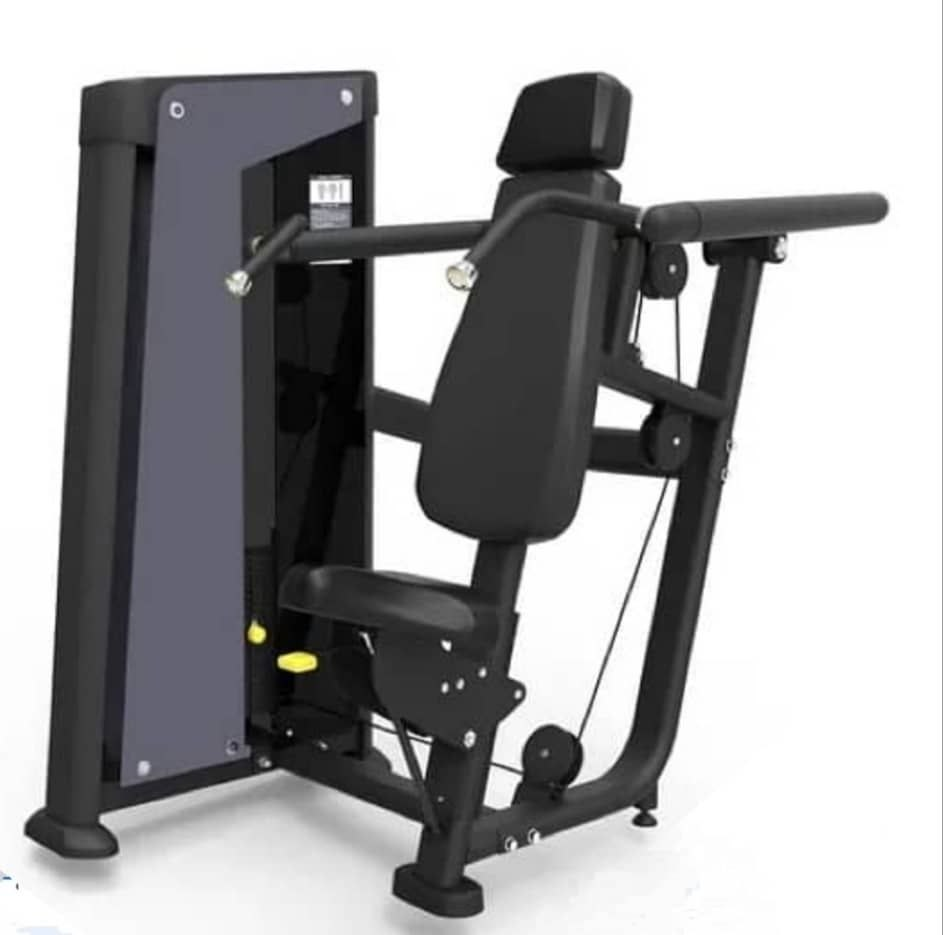
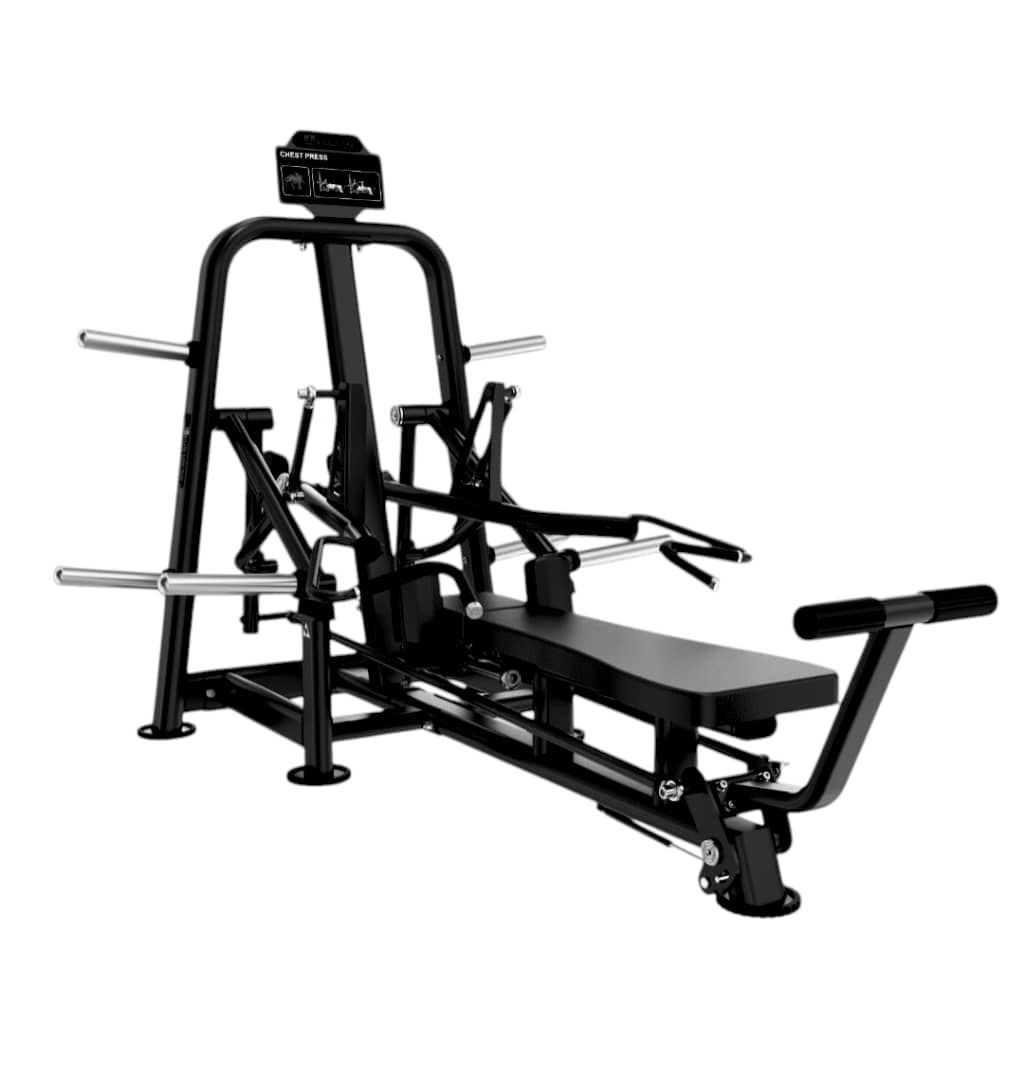
renaming_machines+add-ons_meals

diff --git a/src/app/api/portal/meal-catalog/route.ts b/src/app/api/portal/meal-catalog/route.ts
@@ -6,9 +6,9 @@ const FALLBACK_ITEMS = [
   {
     id: "meal_250_150",
     kind: "meal",
-    name_ar: "وجبة رز ودجاج",
+    name_ar: "وجبة 150غ دجاج",
     name_en: "Chicken and rice meal",
-    description_ar: "٢٥٠غ رز + ١٥٠غ دجاج + سلطة",
+    description_ar: "رز 250غ + دجاج 150غ + سلطة",
     unit_label_ar: "وجبة",
     rice_grams: 250,
     chicken_grams: 150,
@@ -19,9 +19,9 @@ const FALLBACK_ITEMS = [
   {
     id: "meal_300_200",
     kind: "meal",
-    name_ar: "وجبة رز ودجاج",
+    name_ar: "وجبة 200غ دجاج",
     name_en: "Chicken and rice meal",
-    description_ar: "٣٠٠غ رز + ٢٠٠غ دجاج + سلطة",
+    description_ar: "رز 300غ + دجاج 200غ + سلطة",
     unit_label_ar: "وجبة",
     rice_grams: 300,
     chicken_grams: 200,
@@ -55,7 +55,28 @@ const FALLBACK_ITEMS = [
     price_syp: 15000,
     calories: null,
   },
+  {
+    id: "extra_salad",
+    kind: "addon",
+    name_ar: "إضافة سلطة",
+    name_en: "Extra salad",
+    description_ar: "حصة سلطة إضافية",
+    unit_label_ar: "حصة",
+    rice_grams: null,
+    chicken_grams: null,
+    includes_salad: false,
+    price_syp: 12000,
+    calories: null,
+  },
 ];
+
+type FoodItemRow = {
+  id: string;
+  name: string;
+  description: string | null;
+  category: "meals" | "meal_addons";
+  price_syp: number;
+};
 
 export async function GET() {
   const { error } = await requireAuth(["player"]);
@@ -63,15 +84,29 @@ export async function GET() {
 
   const service = createServiceClient();
   const { data, error: dbError } = await service
-    .from("catalog_items")
-    .select("id, kind, name_ar, name_en, description_ar, unit_label_ar, rice_grams, chicken_grams, includes_salad, price_syp, calories")
+    .from("food_items")
+    .select("id, name, description, category, price_syp")
     .eq("is_active", true)
-    .in("kind", ["meal", "addon"])
+    .in("category", ["meals", "meal_addons"])
     .order("sort_order", { ascending: true });
 
   if (dbError) {
     return NextResponse.json({ success: true, data: FALLBACK_ITEMS, source: "fallback" });
   }
 
-  return NextResponse.json({ success: true, data: data ?? [], source: "supabase" });
+  const catalogItems = ((data ?? []) as FoodItemRow[]).map((item) => ({
+    id: item.id,
+    kind: item.category === "meals" ? "meal" : "addon",
+    name_ar: item.name,
+    name_en: null,
+    description_ar: item.description,
+    unit_label_ar: null,
+    rice_grams: null,
+    chicken_grams: null,
+    includes_salad: item.category === "meals" && (item.description?.includes("سلطة") ?? false),
+    price_syp: item.price_syp,
+    calories: null,
+  }));
+
+  return NextResponse.json({ success: true, data: catalogItems, source: "supabase" });
 }

diff --git a/src/app/(wizard)/onboarding/page.tsx b/src/app/(wizard)/onboarding/page.tsx
@@ -253,6 +253,7 @@ export default function OnboardingPage() {
   // Step 7 – Height
   const [heightUnit, setHeightUnit] = useState<"cm" | "ft/in">("cm");
   const [heightVal,  setHeightVal]  = useState("170");
+  const [finishError, setFinishError] = useState("");
 
   function toggleMulti(set: Set<string>, val: string, setter: (s: Set<string>) => void) {
     const next = new Set(set);
@@ -275,6 +276,7 @@ export default function OnboardingPage() {
 
   async function handleFinish() {
     setLoading(true);
+    setFinishError("");
     const monthIdx = MONTHS.indexOf(dobMonth) + 1;
     const dob = `${dobYear}-${String(monthIdx).padStart(2, "0")}-${dobDay}`;
 
@@ -292,24 +294,32 @@ export default function OnboardingPage() {
             return Math.round((parseInt(match[1]) * 12 + parseInt(match[2])) * 2.54);
           })();
 
-    const res = await fetch("/api/auth/onboarding", {
-      method: "POST",
-      headers: { "Content-Type": "application/json" },
-      body: JSON.stringify({
-        fitness_goal: fitnessGoal,
-        training_level: level,
-        illnesses: Array.from(illnesses),
-        injuries: Array.from(injuries),
-        date_of_birth: dob,
-        gender,
-        weight_kg: Math.round(weightKg * 10) / 10,
-        height_cm: heightCm,
-      }),
-    });
+    try {
+      const res = await fetch("/api/auth/onboarding", {
+        method: "POST",
+        headers: { "Content-Type": "application/json" },
+        body: JSON.stringify({
+          fitness_goal: fitnessGoal,
+          training_level: level,
+          illnesses: Array.from(illnesses),
+          injuries: Array.from(injuries),
+          date_of_birth: dob,
+          gender,
+          weight_kg: Math.round(weightKg * 10) / 10,
+          height_cm: heightCm,
+        }),
+      });
 
-    if (res.ok) {
-      window.location.href = "/portal";
-    } else {
+      if (res.ok) {
+        window.location.href = "/portal";
+        return;
+      }
+
+      const json = await res.json().catch(() => ({}));
+      setFinishError(json.error ?? "تعذر حفظ الملف. حاول مرة أخرى.");
+    } catch {
+      setFinishError("تعذر الاتصال بالخادم. حاول مرة أخرى.");
+    } finally {
       setLoading(false);
     }
   }
@@ -543,6 +553,9 @@ export default function OnboardingPage() {
 
       {/* Bottom actions */}
       <div className="px-6 pb-10 pt-2 space-y-3">
+        {finishError && (
+          <p className="text-danger text-[13px] text-center">{finishError}</p>
+        )}
         <button
           onClick={next}
           disabled={!canProceed() || loading}

diff --git a/src/app/coach/page.tsx b/src/app/coach/page.tsx
@@ -4,17 +4,25 @@ import { useEffect, useState } from "react";
 import Link from "next/link";
 import { useTranslation } from "@/lib/i18n";
 import { createBrowserSupabase } from "@/lib/supabase";
-import { Users, Dumbbell, UtensilsCrossed, MessageSquare } from "lucide-react";
+import { Users, Dumbbell, UserCheck, UserX } from "lucide-react";
 
 interface Stats {
   activePlayers: number;
+  appRegisteredPlayers: number;
+  dashboardOnlyPlayers: number;
+  assignablePlayers: number;
   plansSent: number;
-  pendingMessages: number;
 }
 
 export default function CoachDashboard() {
   const { t } = useTranslation();
-  const [stats, setStats] = useState<Stats>({ activePlayers: 0, plansSent: 0, pendingMessages: 0 });
+  const [stats, setStats] = useState<Stats>({
+    activePlayers: 0,
+    appRegisteredPlayers: 0,
+    dashboardOnlyPlayers: 0,
+    assignablePlayers: 0,
+    plansSent: 0,
+  });
   const [loading, setLoading] = useState(true);
 
   useEffect(() => {
@@ -25,10 +33,22 @@ export default function CoachDashboard() {
         if (!user) return;
 
         // Same source as /coach/players: only subscribed + app-linked players
-        // are counted here, so the dashboard number matches the assignable list.
+        // are returned in data. The card itself shows the Dashboard-paid
+        // active player count from member_subscriptions.
         const playersRes = await fetch("/api/coach/players");
         const playersJson = await playersRes.json().catch(() => ({ data: [] }));
-        const playerCount = Array.isArray(playersJson.data) ? playersJson.data.length : 0;
+        const playerCount = typeof playersJson.diagnostics?.active_dashboard_subscribed_count === "number"
+          ? playersJson.diagnostics.active_dashboard_subscribed_count
+          : Array.isArray(playersJson.data) ? playersJson.data.length : 0;
+        const appRegisteredCount = typeof playersJson.diagnostics?.paid_dashboard_with_app_count === "number"
+          ? playersJson.diagnostics.paid_dashboard_with_app_count
+          : Array.isArray(playersJson.groups?.subscribed_dashboard_and_app) ? playersJson.groups.subscribed_dashboard_and_app.length : 0;
+        const dashboardOnlyCount = typeof playersJson.diagnostics?.paid_dashboard_without_app_count === "number"
+          ? playersJson.diagnostics.paid_dashboard_without_app_count
+          : Array.isArray(playersJson.groups?.subscribed_dashboard_not_app) ? playersJson.groups.subscribed_dashboard_not_app.length : 0;
+        const assignableCount = typeof playersJson.diagnostics?.assignable_count === "number"
+          ? playersJson.diagnostics.assignable_count
+          : appRegisteredCount;
 
         // Get plans sent today
         const today = new Date().toISOString().split("T")[0];
@@ -39,8 +59,10 @@ export default function CoachDashboard() {
 
         setStats({
           activePlayers: playerCount,
+          appRegisteredPlayers: appRegisteredCount,
+          dashboardOnlyPlayers: dashboardOnlyCount,
+          assignablePlayers: assignableCount,
           plansSent: sentCount ?? 0,
-          pendingMessages: 0,
         });
       } catch {
         // Stats stay at 0
@@ -52,10 +74,10 @@ export default function CoachDashboard() {
   }, []);
 
   const cards = [
-    { labelKey: "coach.activePlayers", value: stats.activePlayers, icon: Users, href: "/coach/players", color: "text-[#FF6B35]", bg: "bg-[#FF6B35]/10" },
-    { labelKey: "coach.workoutPlans",  value: stats.plansSent,     icon: Dumbbell, href: "/coach/plans", color: "text-gold", bg: "bg-gold/10" },
-    { labelKey: "coach.mealPlans",     value: "→",                 icon: UtensilsCrossed, href: "/coach/meals", color: "text-green-400", bg: "bg-green-400/10" },
-    { labelKey: "coach.messages",      value: stats.pendingMessages, icon: MessageSquare, href: "/coach/messages", color: "text-blue-400", bg: "bg-blue-400/10" },
+    { label: "مشتركون من الاستقبال", value: stats.activePlayers, icon: Users, href: "/coach/players", color: "text-[#FF6B35]", bg: "bg-[#FF6B35]/10" },
+    { label: "لديهم حساب تطبيق", value: stats.appRegisteredPlayers, icon: UserCheck, href: "/coach/players", color: "text-green-400", bg: "bg-green-400/10" },
+    { label: "بدون حساب تطبيق", value: stats.dashboardOnlyPlayers, icon: UserX, href: "/coach/players", color: "text-gold", bg: "bg-gold/10" },
+    { label: "قابلون للتعيين", value: stats.assignablePlayers, icon: Dumbbell, href: "/coach/players", color: "text-blue-400", bg: "bg-blue-400/10" },
   ];
 
   return (
@@ -73,7 +95,7 @@ export default function CoachDashboard() {
           const Icon = card.icon;
           return (
             <Link
-              key={card.labelKey}
+              key={card.label}
               href={card.href}
               className="relative bg-white/[0.04] border border-white/[0.06] p-5 hover:bg-white/[0.06] active:scale-[0.98] transition-all"
             >
@@ -81,7 +103,7 @@ export default function CoachDashboard() {
                 <Icon size={20} className={card.color} />
               </div>
               <p className="text-white/40 text-[11px] font-mono uppercase tracking-wider">
-                {t(card.labelKey)}
+                {card.label}
               </p>
               <p className="text-white text-[24px] font-display tracking-wider mt-1">
                 {loading ? "..." : card.value}

diff --git a/src/app/portal/profile/page.tsx b/src/app/portal/profile/page.tsx
@@ -45,6 +45,30 @@ type ProfileSnapshot = {
   level: "normal" | "advanced"; goal: "maintain" | "lose" | "gain"; outcome: "muscle" | "health";
 };
 
+function normalizeProfileLevel(value: unknown): "normal" | "advanced" {
+  return value === "advanced" ? "advanced" : "normal";
+}
+
+function normalizeWeightGoal(value: unknown, legacyFitnessGoal: unknown): "maintain" | "lose" | "gain" {
+  if (value === "lose" || value === "gain" || value === "maintain") return value;
+  if (legacyFitnessGoal === "lose_weight") return "lose";
+  if (legacyFitnessGoal === "hypertrophy") return "gain";
+  return "maintain";
+}
+
+function normalizeFitnessOutcome(value: unknown, legacyFitnessGoal: unknown): "muscle" | "health" {
+  if (value === "muscle" || value === "health") return value;
+  if (legacyFitnessGoal === "lose_weight") return "health";
+  return "muscle";
+}
+
+function displayFitnessGoal(value: unknown) {
+  if (value === "hypertrophy") return "زيادة كتلة عضلية";
+  if (value === "muscle_definition") return "تنشيف وتعريف عضلي";
+  if (value === "lose_weight") return "خسارة وزن";
+  return typeof value === "string" ? value : "";
+}
+
 // ── WIZARD ────────────────────────────────────────────────────
 const WIZARD_STEPS = [
   { id: "welcome" },
@@ -72,6 +96,7 @@ function ProfileWizard({
   onComplete: () => void;
 }) {
   const [saving, setSaving] = useState(false);
+  const [finishError, setFinishError] = useState("");
 
   // Restore step from draft on mount
   const [step, setStep] = useState(() => {
@@ -125,8 +150,14 @@ function ProfileWizard({
 
   async function handleFinish() {
     setSaving(true);
-    await onComplete();
-    setSaving(false);
+    setFinishError("");
+    try {
+      await onComplete();
+    } catch {
+      setFinishError("حدث خطأ أثناء الحفظ. حاول مرة أخرى.");
+    } finally {
+      setSaving(false);
+    }
   }
 
   const isLast = step === WIZARD_STEPS.length - 1;
@@ -405,6 +436,9 @@ function ProfileWizard({
 
       {/* Bottom CTA */}
       <div className="flex-shrink-0 px-5 pb-8 pt-4 border-t border-white/[0.06]">
+        {finishError && (
+          <p className="text-danger text-[13px] text-center mb-3">{finishError}</p>
+        )}
         <button
           onClick={() => {
             if (isLast) { handleFinish(); }
@@ -480,14 +514,14 @@ export default function ProfilePage() {
       const ph = member.phone ?? ""; const bd = member.date_of_birth ?? "";
       const il = member.illnesses?.length ? member.illnesses : ["None"];
       const inj = member.injuries?.length ? member.injuries : ["None"];
-      const lv = (member.training_level as "normal" | "advanced") ?? "normal";
-      const gl = (member.weight_goal as "maintain" | "lose" | "gain") ?? "maintain";
-      const oc = (member.fitness_outcome as "muscle" | "health") ?? "muscle";
+      const lv = normalizeProfileLevel(member.training_level);
+      const gl = normalizeWeightGoal(member.weight_goal, member.fitness_goal);
+      const oc = normalizeFitnessOutcome(member.fitness_outcome, member.fitness_goal);
 
       setFirstName(fn); setLastName(ln); setPhone(ph); setBirthday(bd);
       setHeightCm(member.height_cm != null ? String(member.height_cm) : "");
       setWeightKg(member.weight_kg != null ? String(member.weight_kg) : "");
-      setFitnessGoal(member.fitness_goal ?? "");
+      setFitnessGoal(displayFitnessGoal(member.fitness_goal));
       setMedicalNotes(member.medical_notes ?? "");
       setLimitations(member.limitations ?? "");
       setSelectedIllnesses(il); setSelectedInjuries(inj);

diff --git a/src/app/coach/players/page.tsx b/src/app/coach/players/page.tsx
@@ -237,8 +237,8 @@ export default function CoachPlayersPage() {
             <div className="space-y-2 max-h-[calc(100vh-220px)] overflow-y-auto pr-1">
               {filteredPlayers.length === 0 && (
                 <div className="bg-white/[0.03] border border-white/[0.06] p-5 text-center">
-                  <p className="text-white/45 text-[13px]">No eligible linked subscribed players.</p>
-                  <p className="text-white/25 text-[11px] mt-1">Dashboard-only and app-only players are listed below for diagnosis.</p>
+                  <p className="text-white/45 text-[13px]">No active Dashboard subscribers found.</p>
+                  <p className="text-white/25 text-[11px] mt-1">App-only players are listed below for diagnosis.</p>
                 </div>
               )}
               {filteredPlayers.map((player) => (
@@ -263,6 +263,11 @@ export default function CoachPlayersPage() {
                   {player.current_assignment?.template && (
                     <span className="text-[9px] font-mono uppercase text-gold bg-gold/10 px-1.5 py-0.5">
                       Assigned
+                    </span>
+                  )}
+                  {!player.eligible && (
+                    <span className="text-[9px] font-mono uppercase text-white/40 bg-white/[0.06] px-1.5 py-0.5">
+                      {player.has_app_registration ? "Blocked" : "No App"}
                     </span>
                   )}
                 </button>

diff --git a/src/app/api/auth/signup/route.ts b/src/app/api/auth/signup/route.ts
@@ -175,7 +175,7 @@ export async function POST(request: Request) {
     memberId = inserted.id;
   }
 
-  await upsertMemberAppProfile(supabase, authId, memberId, {
+  const appProfile = await upsertMemberAppProfile(supabase, authId, memberId, {
     full_name,
     phone,
     onboarding_complete: false,
@@ -190,6 +190,8 @@ export async function POST(request: Request) {
       member_id: memberId,
       email:     internalEmail,
       linked,
+      app_profile_saved: Boolean(appProfile),
+      app_profile_migration_required: !appProfile,
     },
   });
 }